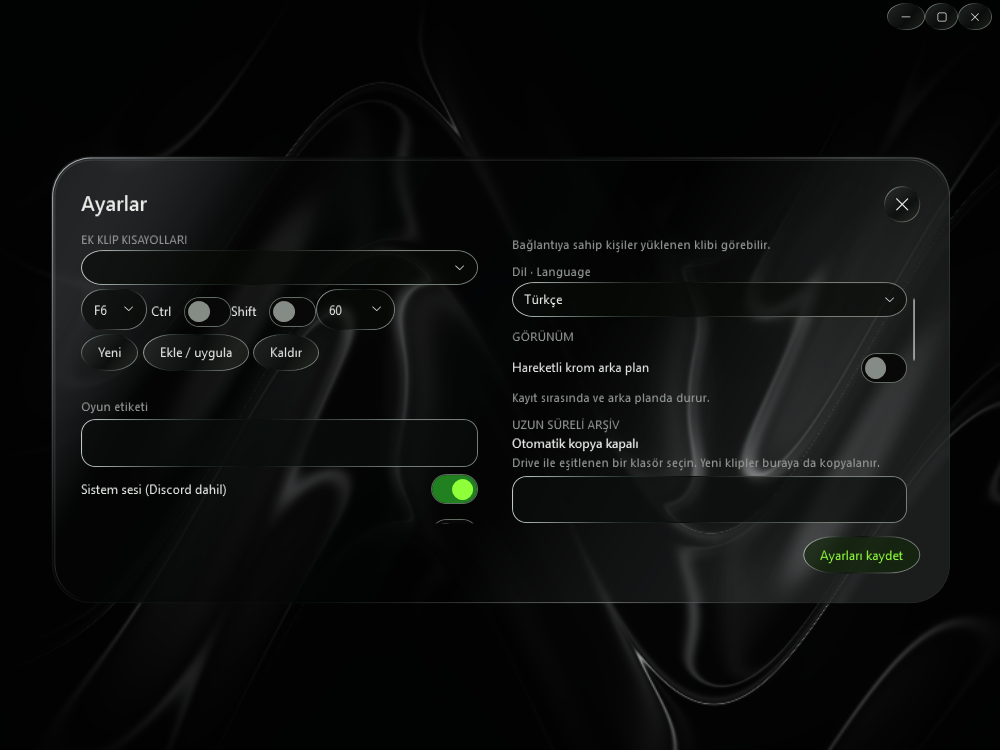
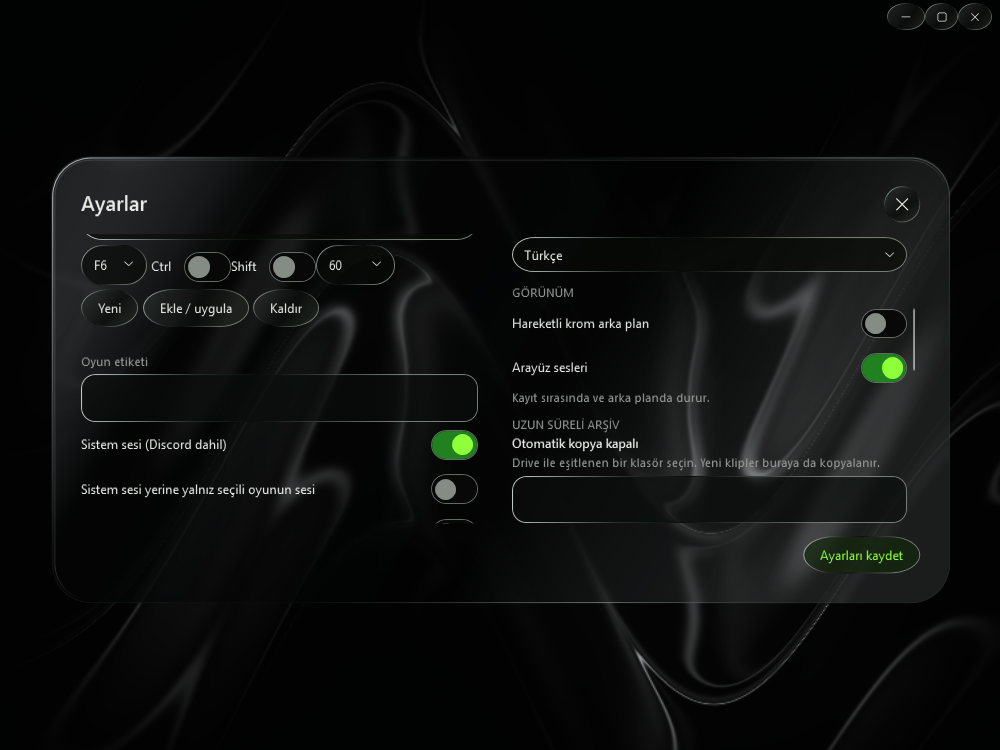
README: v0.4.4 arayüz seslerini ve ekran görüntülerini güncelle

diff --git a/README.md b/README.md
@@ -4,10 +4,10 @@
 
 ## İndir
 
-- **[Windows yükleyicisi](https://github.com/wozeky/RollClip/releases/download/v0.4.2/RollClip-Setup-win-x64.exe)** · Türkçe/İngilizce, kullanıcı hesabına kurulum ve Başlat menüsü kısayolu.
-- **[Taşınabilir Windows ZIP](https://github.com/wozeky/RollClip/releases/download/v0.4.2/RollClip-win-x64.zip)** · ZIP’in tamamını çıkarıp `RollClip.exe` dosyasını çalıştırın.
+- **[Windows yükleyicisi](https://github.com/wozeky/RollClip/releases/download/v0.4.4/RollClip-Setup-win-x64.exe)** · Türkçe/İngilizce, kullanıcı hesabına kurulum ve Başlat menüsü kısayolu.
+- **[Taşınabilir Windows ZIP](https://github.com/wozeky/RollClip/releases/download/v0.4.4/RollClip-win-x64.zip)** · ZIP’in tamamını çıkarıp `RollClip.exe` dosyasını çalıştırın.
 
-İki paket de bu ön sürümde imzasızdır. SHA-256 dosyaları [Release sayfasında](https://github.com/wozeky/RollClip/releases/tag/v0.4.2) bulunur. **Ayarlar → Dil** üzerinden Türkçe ve İngilizce temel arayüz arasında geçebilirsiniz. Dili kaydedip uygulamayı yeniden açın. Bazı hata ve tanılama metinleri Türkçe kalır.
+İki paket de bu ön sürümde imzasızdır. SHA-256 dosyaları [Release sayfasında](https://github.com/wozeky/RollClip/releases/tag/v0.4.4) bulunur. **Ayarlar → Dil** üzerinden Türkçe ve İngilizce temel arayüz arasında geçebilirsiniz. Dili kaydedip uygulamayı yeniden açın. Bazı hata ve tanılama metinleri Türkçe kalır.
 
 ## Ekran görüntüleri
 
@@ -55,6 +55,14 @@ Ana ekrandan oyun penceresini seçin. Kalite, süre, ses, etiket, yöntem ve oto
 - **DXGI** ekran 0’ın tamamını kaydeder. Başlamadan önce onay ister ve otomatik başlatma için kullanılmaz.
 - NVENC, AMF ve Intel QSV denenir. Donanım kodlama açılmazsa yazılımsal Media Foundation kullanılır. Video SDR olarak kaydedilir.
 - Klip diske yazılınca isteğe bağlı Windows bildirimi ve ses çalar. Windows bildirim ayarları ve Rahatsız Etmeyin modu bildirimin görünmesini etkileyebilir.
+
+## v0.4.4 ile gelenler
+
+Ana ekran, ayarlar, klip galerisi, editör ve sistem tepsisindeki kontroller kısa etkileşim sesleri çalar. Açma ve kapama tonları ayrıdır. **Ayarlar → Görünüm → Arayüz sesleri** ile kapatılabilir.
+
+## v0.4.3 ile gelenler
+
+Ana ekrandaki Paylaşım simgesi kartın içinde daha ortaya alındı.
 
 ## v0.4.2 ile gelenler
 
